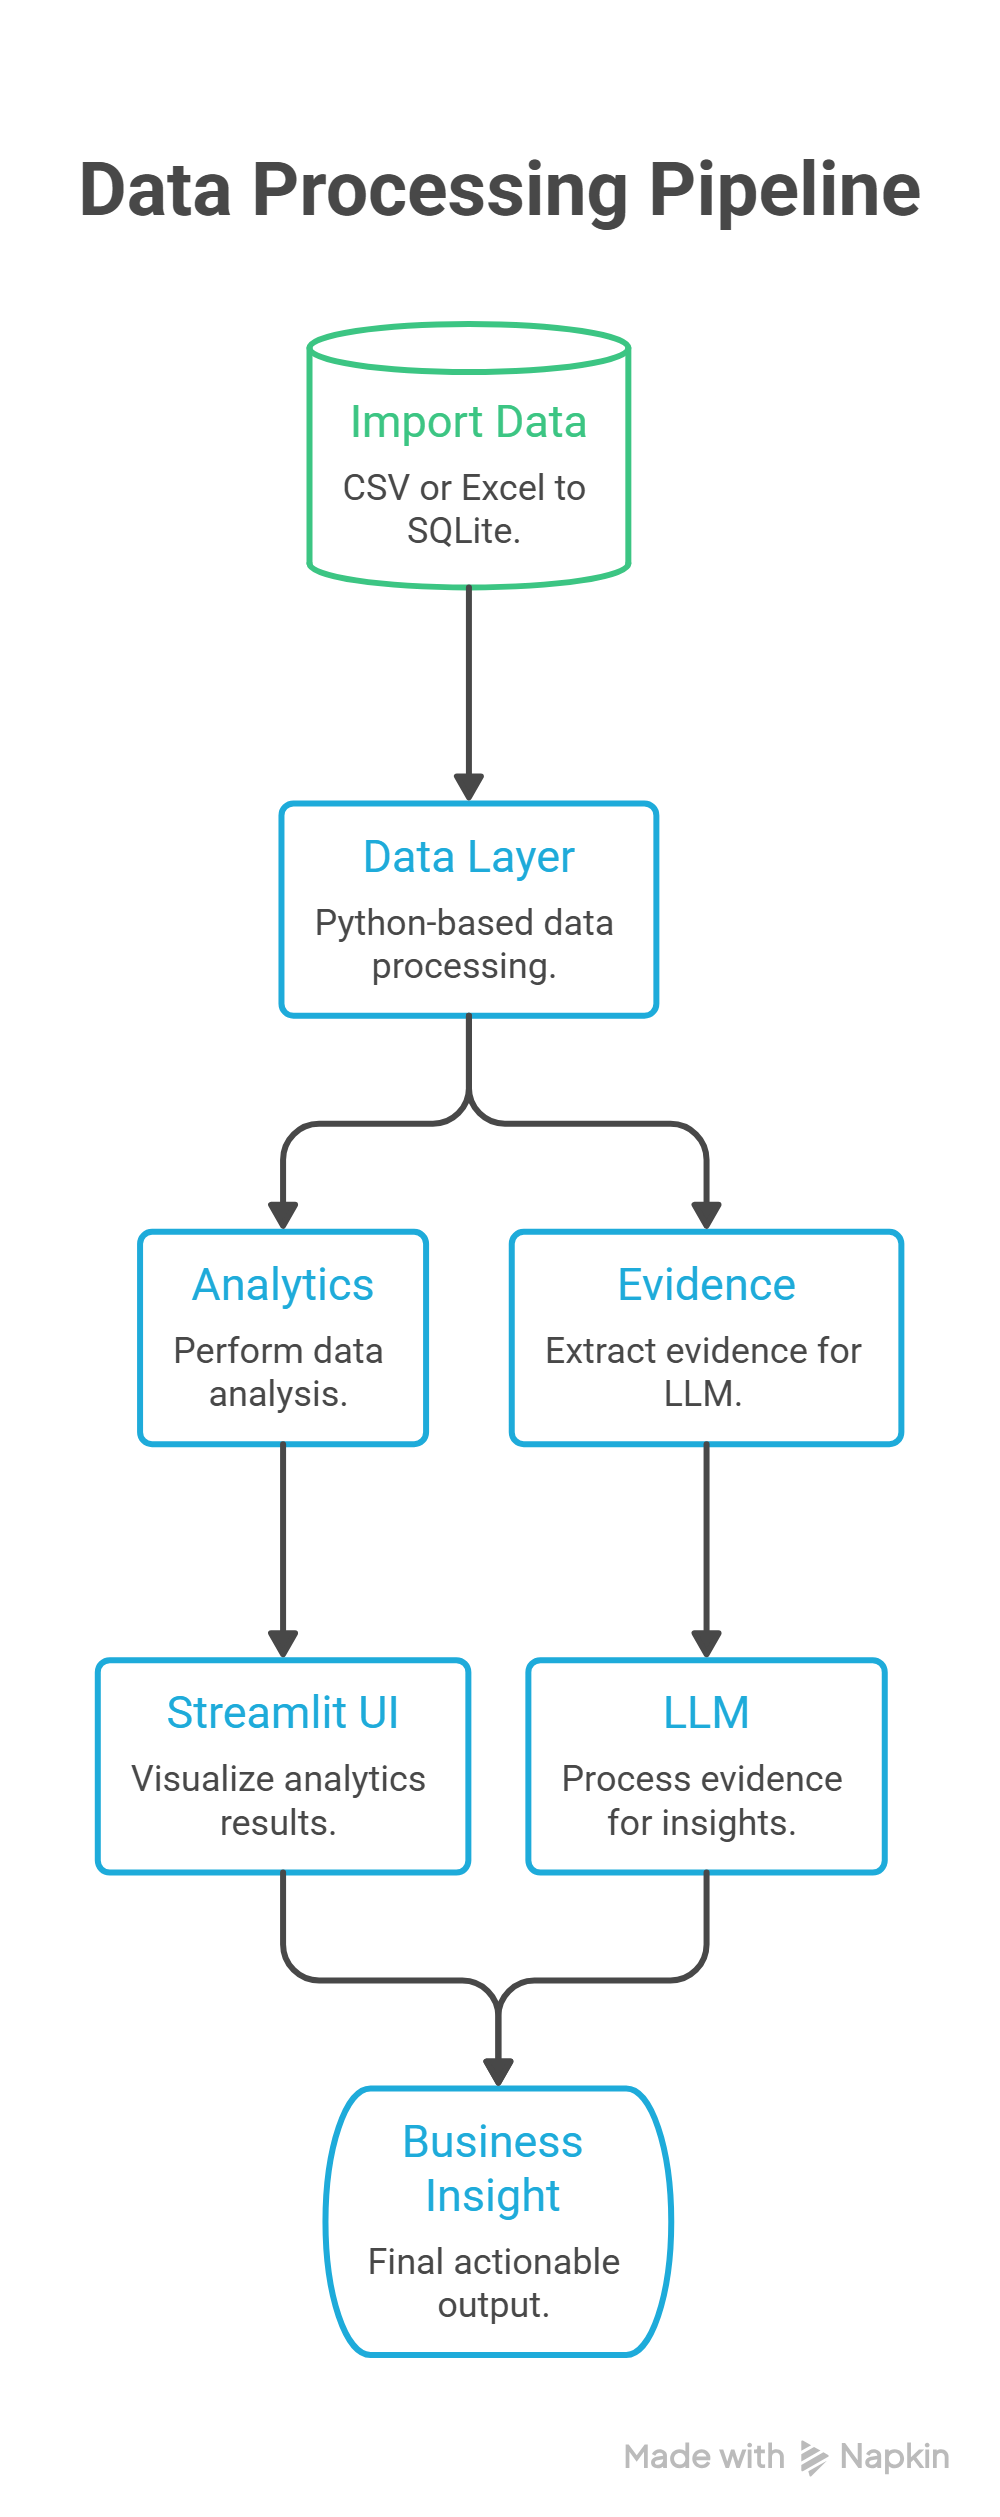
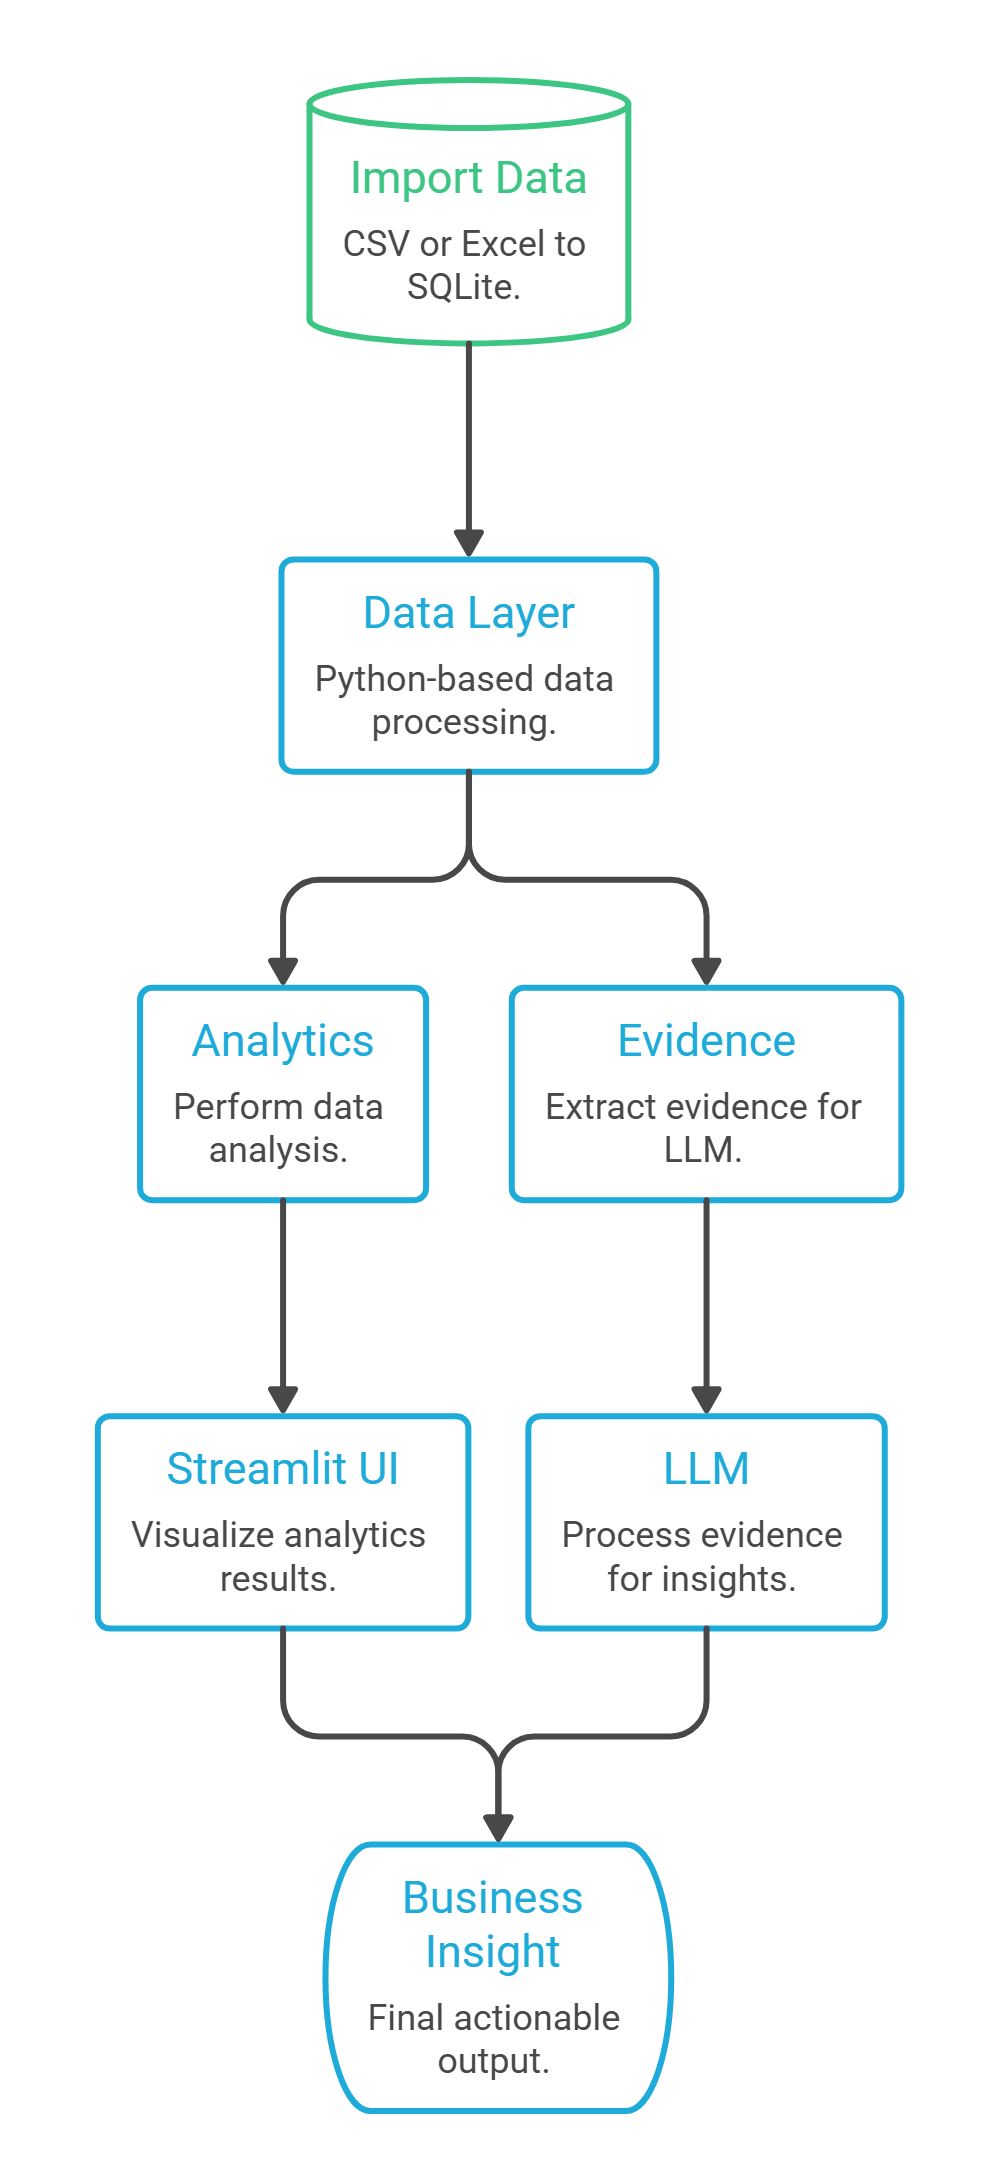
readme update

diff --git a/README.md b/README.md
@@ -2,7 +2,11 @@
 
 This project is a decision-support dashboard built for Autopilot Offices. It helps the leadership team analyze commercial real estate data to determine where the company should expand next in Bangalore. The system turns raw, imperfect business data into actionable market intelligence, backed by real evidence.
 
-![Architecture](docs/architecture.png)
+
+## Demo: [https://marketinsightz.streamlit.app/]
+
+
+<img src="docs/Architecture.png" alt="Architecture" height="520" width="300">
 
 ### Key Features
 - **Market Overview & Comparison**: Compare micro-markets across Bangalore using data like supply, vacancy, and average asking rent.
